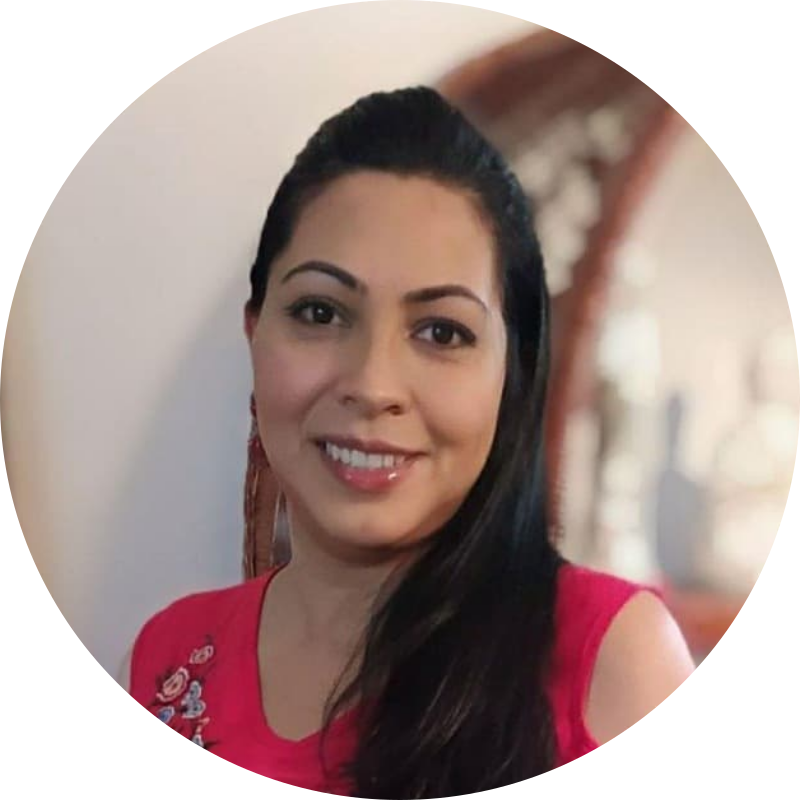
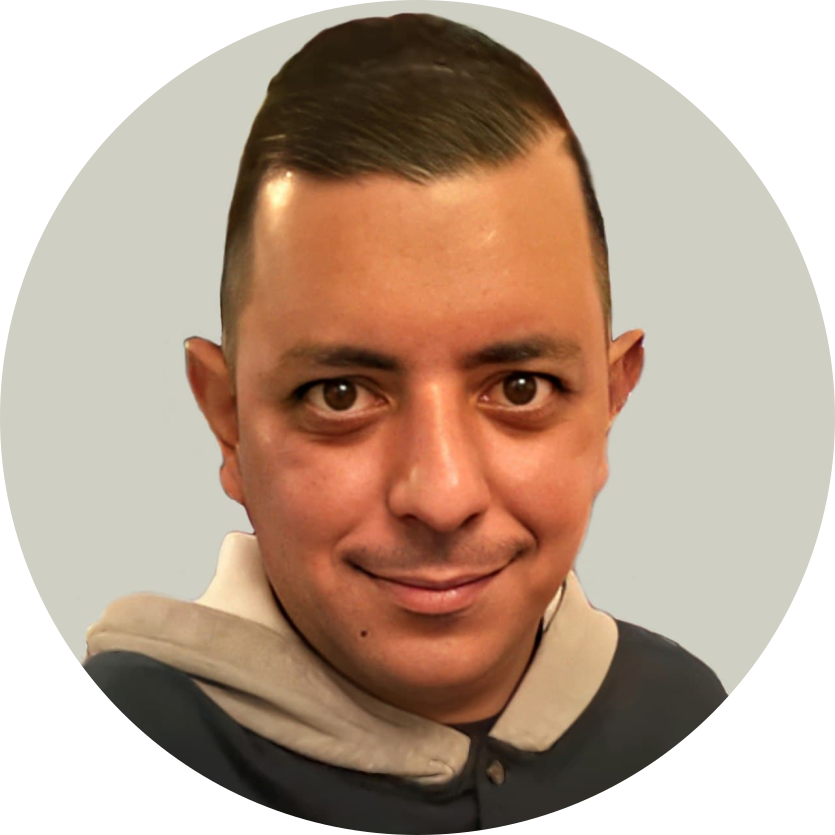
Actualizado proyecto

diff --git a/index.html b/index.html
@@ -6,7 +6,7 @@
     <meta name="description" content="">
     <meta name="author" content="Mark Otto, Jacob Thornton, and Bootstrap contributors">
     <link rel="icon" href="static/img/favicon.png">
-    <title>María Morales - Portafolio</title>
+    <title>Yonder Rangel - Portafolio</title>
     <!-- Bootstrap core CSS -->
     <link href="static/bootstrap/css/bootstrap.min.css" rel="stylesheet">
     <!-- Custom styles for this template -->
@@ -15,15 +15,15 @@
 <body>
 <style>
   body {
-    background: -webkit-linear-gradient(left, #A020F0, darkblue);
+    background: -webkit-linear-gradient(left, #242424, darkblue);
   }
-  h5 {
-    background: -webkit-linear-gradient(left, #A020F0, #000000);
+  .text-gradient {
+    background: -webkit-linear-gradient(left, #000000, blue);
     -webkit-background-clip: text;
     -webkit-text-fill-color: transparent;
   }
-  .text-gradient {
-    background: -webkit-linear-gradient(left, #A020F0, #000000);
+  h5 {
+    background: -webkit-linear-gradient(left, #000000, blue);
     -webkit-background-clip: text;
     -webkit-text-fill-color: transparent;
   }
@@ -51,67 +51,56 @@
       <div class="card">
         <div class="card-body">
           <div class="text-center mb-4">
-            <img src="static/img/profile.png" class="img-rotate-profile" width="40%">
-            <h3 class="mt-3 text-gradient">María Morales</h3>
+            <img src="static/img/profile.png" class="img-rotate-profile" width="30%">
+            <h3 class="mt-3 text-gradient">Yonder Rangel</h3>
           </div>
           <p align="justify">
-            Ingeniero de sistemas en el área de Investigación de Operaciones, con conocimiento y experiencia en levantamiento de información, planificación, diseño de procesos, seguimiento de actividades, pruebas funcionales y técnicas, elaboración de informes y manuales, análisis de calidad y capacitación a usuarios de sistemas de información y software orientado a la web.
+            Ingeniero de Sistemas, con conocimientos y experiencia en reparación y mantenimiento preventivo y correctivo de computadoras, limpieza de software y hardware, instalación de Sistemas Operativos, respaldo de información, instalación y configuración de routers.
           </p>
         </div>
       </div>
-      <div class="card mt-3">
+      <div class="card mt-3 mb-3">
         <div class="card-body">
           <h5 class="img-rotate">CONOCIMIENTOS Y HABILIDADES</h5>
           <p align="justify">
             <ul>
               <li class="mb-3">
                 <p align="justify">
-                  Manejo en herramientas para la Gestión y Planificación de proyectos, como: Trac, Trello, GitLab, Teamwork, Project, MeisterTask y Jira.
+                  <b>Sistemas Operativos Privativos:</b> Microsoft Windows XP, Vista, 7, 8, 10.
                 </p>
               </li>
               <li class="mb-3">
                 <p align="justify">
-                  Manejo en herramientas para el diseño de procesos, tales como: Lucidchart, Draw.io, Dia y Visio.
+                  <b>Sistemas Operativos Libres:</b> GNU/Linux Debian, GNU/Linux Ubuntu, GNU/Linux Xubuntu, GNU/Linux Mint, GNU/Linux Canaima.
                 </p>
               </li>
               <li class="mb-3">
                 <p align="justify">
-                  Metodologías de desarrollo de sistemas (ágiles, no ágiles): conocimiento de Scrum, UML (Unified Modeling Language), TDD (Test-Driven Development) y Metodología para el Desarrollo Colaborativo de Software Libre de CENDITEL (MDCSL).
+                  <b>Ofimática en Windows:</b> Microsoft Word, Microsoft Excel, Microsoft PowerPoint.
                 </p>
               </li>
               <li class="mb-3">
                 <p align="justify">
-                  Manejo de sistemas operativos (Linux y Windows).
+                  <b>Ofimática en GNU/Linux:</b> LibreOffice Writer, LibreOffice Calc, LibreOffice Impress.
                 </p>
               </li>
               <li class="mb-3">
                 <p align="justify">
-                  Transcriptora (reuniones, grabaciones y minutas).
-                </p>
-              </li>
-            </ul>
-          </p>
-        </div>
-      </div>
-      <div class="card mt-3 mb-3">
-        <div class="card-body">
-          <h5 class="img-rotate">HISTORIAL LABORAL</h5>
-          <p align="justify">
-            <ul>
-              <li class="mb-3">
-                <p align="justify">
-                  <b>IDBC Group, (año 2019-2021):</b> Consultor funcional y Coordinadora de actividades y Seguimiento de proyectos.
+                  <b>Programas Informáticos:</b> Microsoft Windows Movie Maker, Adobe Photoshop, Nero, Audacity.
                 </p>
               </li>
               <li class="mb-3">
                 <p align="justify">
-                  <b>(CENDITEL) Centro Nacional de Desarrollo e Investigación en Tecnologías Libres (año 2017-2019):</b> Analista de Sistemas, Directora en el Área de Apropiación, Facilitadora y Organizadora de cursos Online y Coordinadora de proyectos.
+                  <b>Mantenimiento de Computadoras:</b> 
                 </p>
-              </li>
-              <li class="mb-3">
-                <p align="justify">
-                  <b>Escuela Bolivariana Humberto Tejera, los Sauzales, Estado Mérida (año 2015):</b> Facilitadora sobre trabajos pedagógicos en informática, y manejo de sistemas operativos (Linux y Windows).
-                </p>
+                <ul class="mb-3">
+                  <li class="mb-3">Formateo e instalación de Sistemas Operativos (Windows y GNU/Linux)</li>
+                  <li class="mb-3">Limpieza de Sistemas (virus)</li>
+                  <li class="mb-3">Limpieza de Hardware</li>
+                  <li class="mb-3">Respaldo de información</li>
+                  <li class="mb-3">Recuperación de datos</li>
+                  <li class="mb-3">Instalación de programas (Drivers, Antivirus, Ofimática, Firefox, Chrome, Nero, Photoshop, entre otros).</li>
+                </ul>
               </li>
             </ul>
           </p>
@@ -124,80 +113,78 @@
           <h5 class="img-rotate">DATOS PERSONALES</h5>
           <p align="justify">
             <ul>
-              <li class="mb-3"><b>Nombres:</b> María Auxiliadora</li>
-              <li class="mb-3"><b>Apellidos:</b> Morales Bracamonte</li>
-              <li class="mb-3"><b>Número de identificación:</b> V-15.940.181</li>
-              <li class="mb-3"><b>Fecha de nacimiento:</b> 24/01/1982</li>
-              <li class="mb-3"><b>Lugar de nacimiento:</b> Portuguesa - Venezuela</li>
-              <li class="mb-3"><b>Residencia:</b> Mérida - Venezuela</li>
-              <li class="mb-3"><b>Teléfono móvil:</b> +58 414-7213551 / +58 416-5739450</li>
-              <li class="mb-3"><b>Correo electrónico:</b> morales.maria.b.2007@gmail.com</li>
+              <li class="mb-3"><b>Nombres:</b> Yonder Alberto</li>
+              <li class="mb-3"><b>Apellidos:</b> Rangel Echeverría</li>
+              <li class="mb-3"><b>Número de identificación:</b> V-19.145.453</li>
+              <li class="mb-3"><b>Fecha de nacimiento:</b> 22/06/1988</li>
+              <li class="mb-3"><b>Lugar de nacimiento:</b> Mérida - Venezuela</li>
+              <li class="mb-3"><b>Residencia:</b> Municipio Libertador, Mérida edo. Mérida.</li>
+              <li class="mb-3"><b>Teléfono móvil:</b> +58 424-7361001</li>
+              <li class="mb-3"><b>Correo electrónico:</b> yonderrangel88@gmail.com</li>
             </ul>
           </p>
         </div>
       </div>
-      <div class="card mt-3">
+      <div class="card mt-3 mb-3">
         <div class="card-body">
-          <h5 class="img-rotate">PROYECTOS</h5>
-          <div class="mb-3">
-            <b>2020</b>
-          </div>
-          <ul>
-            <li class="mb-3">
-              <p align="justify">
-                P.L.A.T.G.O: Plataforma de Gestión Operacional para VIGINET.
-              </p>
-            </li>
-          </ul>
-          <div class="mb-3">
-            <b>2019</b>
-          </div>
-          <ul>
-            <li class="mb-3">
-              <p align="justify">
-                CLUB MERCADO: Comercio electrónico de productos alimenticios, club de compradores respaldado por tecnología para obtener directamente de fabricantes y distribuidores productos más frescos, de mayor calidad a un precio más bajo.
-              </p>
-            </li>
-            <li class="mb-3">
-              <p align="justify">
-                AKICOINS: Es una plataforma de servicio punto a punto que permite a sus usuarios intercambiar Bitcoins por cualquier moneda local.
-              </p>
-            </li>
-            <li class="mb-3">
-              <p align="justify">
-                IL’ARGENTO: sistema donde se registran los novios, para llevar un control de los regalos obsequiados por los invitados a la boda.
-              </p>
-            </li>
-          </ul>
-          <div class="mb-3">
-            <b>2017</b>
-          </div>
-          <ul>
-            <li class="mb-3">
-              <p align="justify">
-                Planificación SIPES-APN: Sistema Integral de Planificación Estratégica Situacional.
-              </p>
-            </li>
-            <li class="mb-3">
-              <p align="justify">
-                SAPIC: Sistema Automatizado de Planificación Integral para las Organizaciones Sociales; una herramienta tecno-política para cultivar el desarrollo integral de las comunidades.
-              </p>
-            </li>
-            <li class="mb-3">
-              <p align="justify">
-                TOPARQUÍA: Desarrollo e Instrucción de Cursos en Línea.
-              </p>
-            </li>
-          </ul>
-        </div>
-      </div>
-      <div class="card mt-3">
-        <div class="card-body">
-          <h5 class="img-rotate">IDIOMAS</h5>
+          <h5 class="img-rotate">HISTORIAL LABORAL</h5>
           <p align="justify">
             <ul>
-              <li class="mb-3">Español (Lengua materna).</li>
-              <li class="mb-3">Inglés (Intermedio).</li>
+              <li class="mb-3">
+                <p align="justify">
+                  <b>Industrias Electrónica Andina</b>
+                  <br>
+                  Lugar: CC Alto Chama, Mérida - Venezuela
+                  <br>
+                  Cargo: Pasante.
+                  <br>
+                  Tiempo: 3 meses, del 18 de Abril al 08 de Julio de 2006
+                </p>
+              </li>
+              <li class="mb-3">
+                <p align="justify">
+                  <b>Instituto Autónomo de la Policía del estado Bolivariano de Mérida</b>
+                  <br>
+                  Lugar: Av. Urdaneta, Sector Glorias Patrias. Edificio IAPEM Mérida - Venezuela
+                  <br>
+                  Cargo: Pasante.
+                  <br>
+                  Tiempo: 4 meses, desde el 28/04/14 hasta el 15/08/14
+                </p>
+              </li>
+              <li class="mb-3">
+                <p align="justify">
+                  <b>Contraloría del estado Bolivariano de Mérida</b>
+                  <br>
+                  Lugar: Av. Urdaneta, Mérida - Venezuela.
+                  <br>
+                  Cargo: Analista de Sistemas I.
+                  <br>
+                  Tiempo: 1 año y 6 días, desde el 24/01/17 hasta el 30/01/18.
+                </p>
+              </li>
+              <li class="mb-3">
+                <p align="justify">
+                  <b>Ministerio del Poder Popular de Industrias y Producción Nacional</b>
+                  <br>
+                  Lugar: Av. Urdaneta Esq. de Ibarras a Pelotas Edif. Central Caracas, Distrito Capital.
+                  <br>
+                  Cargo: Profesional I (Analista de Soporte Técnico).
+                  <br>
+                  Tiempo: 1 año, 2 meses y 3 días, desde el 26/02/18 hasta el 29/04/19.
+                </p>
+              </li>
+              <li class="mb-3">
+                <p align="justify">
+                  <b>Fundación Museo de Ciencia y Tecnología (Mucyt)</b>
+                  <br>
+                  Lugar: Urbanización las Tapias, Mérida - Venezuela
+                  <br>
+                  Cargo: Coordinador de Informática.
+                  <br>
+                  Tiempo: Desde el 04/05/19  hasta la actualidad.
+                </p>
+              </li>
             </ul>
           </p>
         </div>
